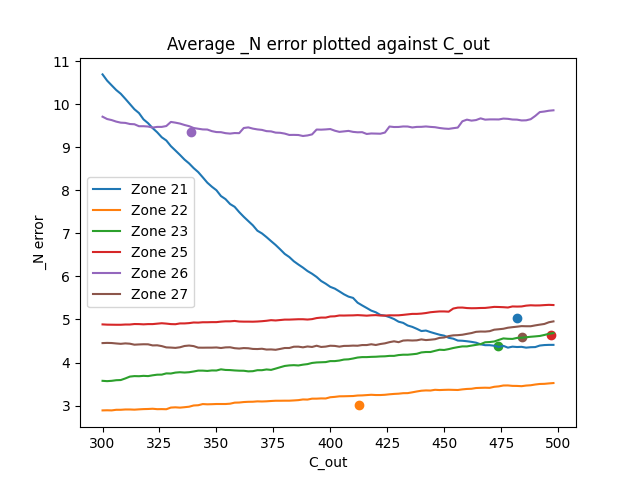
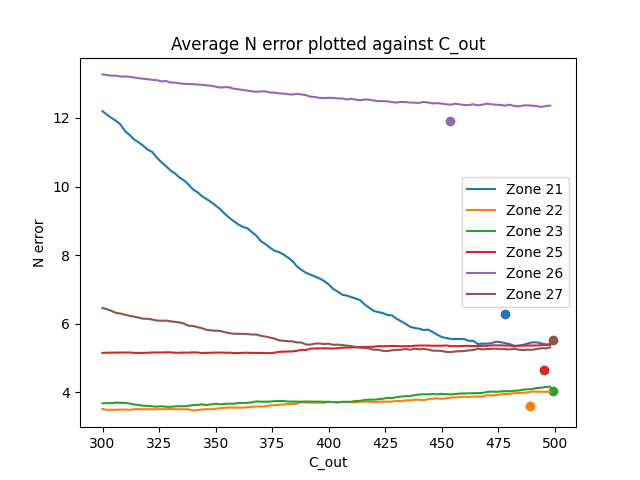
.

diff --git a/Optimise.py b/Optimise.py
@@ -17,21 +17,21 @@ filename_parameters = 'testing'
 filepath_plots = 'documents/plots/'
 
 
-load_davide()
+# load_davide()
 
-# dd_list, N_list, E_list, sensitivity_list, sensitivity_list_c = hold_out(dates, plot=False, filename_parameters=filename_parameters,
-#                                                      summary_errors=error_file, no_steps=100, optimise_N=False)
-# E_list_reg = simple_models_hold_out(dates, dt=15 * 60, method='l', plot=False, plot_scatter=False)
-# table_mean, table_std, table_detect_noneg = residual_analysis(dd_list, N_list, E_list, E_list_reg, plot=False)
-# # Decide on plot for sensitivity, probably take average across periods?
-# avg_params, std_params = return_average_parameters(dates, filename_parameters)
-# sensitivity_plots(sensitivity_list, filepath_plots=filepath_plots, avg_params=avg_params, avg_errors=table_mean[:, 1])
-# sensitivity_plots(sensitivity_list_c, filepath_plots=filepath_plots, avg_params=avg_params, avg_errors=table_mean[:, 3], post_fix='CO2')
-#
-#
-# zone_names = [21, 22, 23, 25, 26, 27]
-# print(matrix_to_latex(table_mean))
-# print(matrix_to_latex(np.hstack((np.array(zone_names).reshape(-1, 1), table_detect_noneg))))
-# print(matrix_to_latex(table_std))
-# print(matrix_to_latex(np.hstack((np.array(zone_names).reshape(-1, 1), avg_params)), d=2))
-# print(matrix_to_latex(np.hstack((np.array(zone_names).reshape(-1, 1), avg_params / std_params)), d=2))
+dd_list, N_list, E_list, sensitivity_list, sensitivity_list_c = hold_out(dates, plot=False, filename_parameters=filename_parameters,
+                                                     summary_errors=error_file, no_steps=100, optimise_N=False)
+E_list_reg = simple_models_hold_out(dates, dt=15 * 60, method='l', plot=False, plot_scatter=False)
+table_mean, table_std, table_detect_noneg = residual_analysis(dd_list, N_list, E_list, E_list_reg, plot=False)
+# Decide on plot for sensitivity, probably take average across periods?
+avg_params, std_params = return_average_parameters(dates, filename_parameters)
+sensitivity_plots(sensitivity_list, filepath_plots=filepath_plots, avg_params=avg_params, avg_errors=table_mean[:, 1])
+sensitivity_plots(sensitivity_list_c, filepath_plots=filepath_plots, avg_params=avg_params, avg_errors=table_mean[:, 3], post_fix='CO2')
+
+
+zone_names = [21, 22, 23, 25, 26, 27]
+print(matrix_to_latex(table_mean))
+print(matrix_to_latex(np.hstack((np.array(zone_names).reshape(-1, 1), table_detect_noneg))))
+print(matrix_to_latex(table_std))
+print(matrix_to_latex(np.hstack((np.array(zone_names).reshape(-1, 1), avg_params)), d=2))
+print(matrix_to_latex(np.hstack((np.array(zone_names).reshape(-1, 1), avg_params / std_params)), d=2))

diff --git a/constants.py b/constants.py
@@ -13,7 +13,7 @@ n_map = {0: [], 1: [2, 10], 2: [1, 3], 3: [2, 4], 4: [2, 5], 5: [4, 6], 6: [5, 7
          }
 ppm_factor = 1
 #         Q_adj        Q_out    C_out        m in mg/s/(g/mol) (5.8)
-bounds = ((0, 2), (0, 4), (300/ppm_factor, 500/ppm_factor), (11.6*24.45/44.01, 23.2*24.45/44.01))
+bounds = ((0, 2/(60*60)), (0, 4/(60*60)), (300/ppm_factor, 500/ppm_factor), (11.6*24.45/44.01, 23.2*24.45/44.01))
 # V in m^3:
 V = np.array([0, 0, 0, 0, 0, 0, 0, 0, 0, 0, 0, 0, 0, 0, 0, 0, 0, 0, 0, 0, 0,
               11.5 * 14.6, 10.2 * 11.5, 8.8 * 14.2, 8.8 * 14.8, 9.2 * 11.3, 15.5 * 11.6, 4.8 * 28]) * 3 #* 1000
